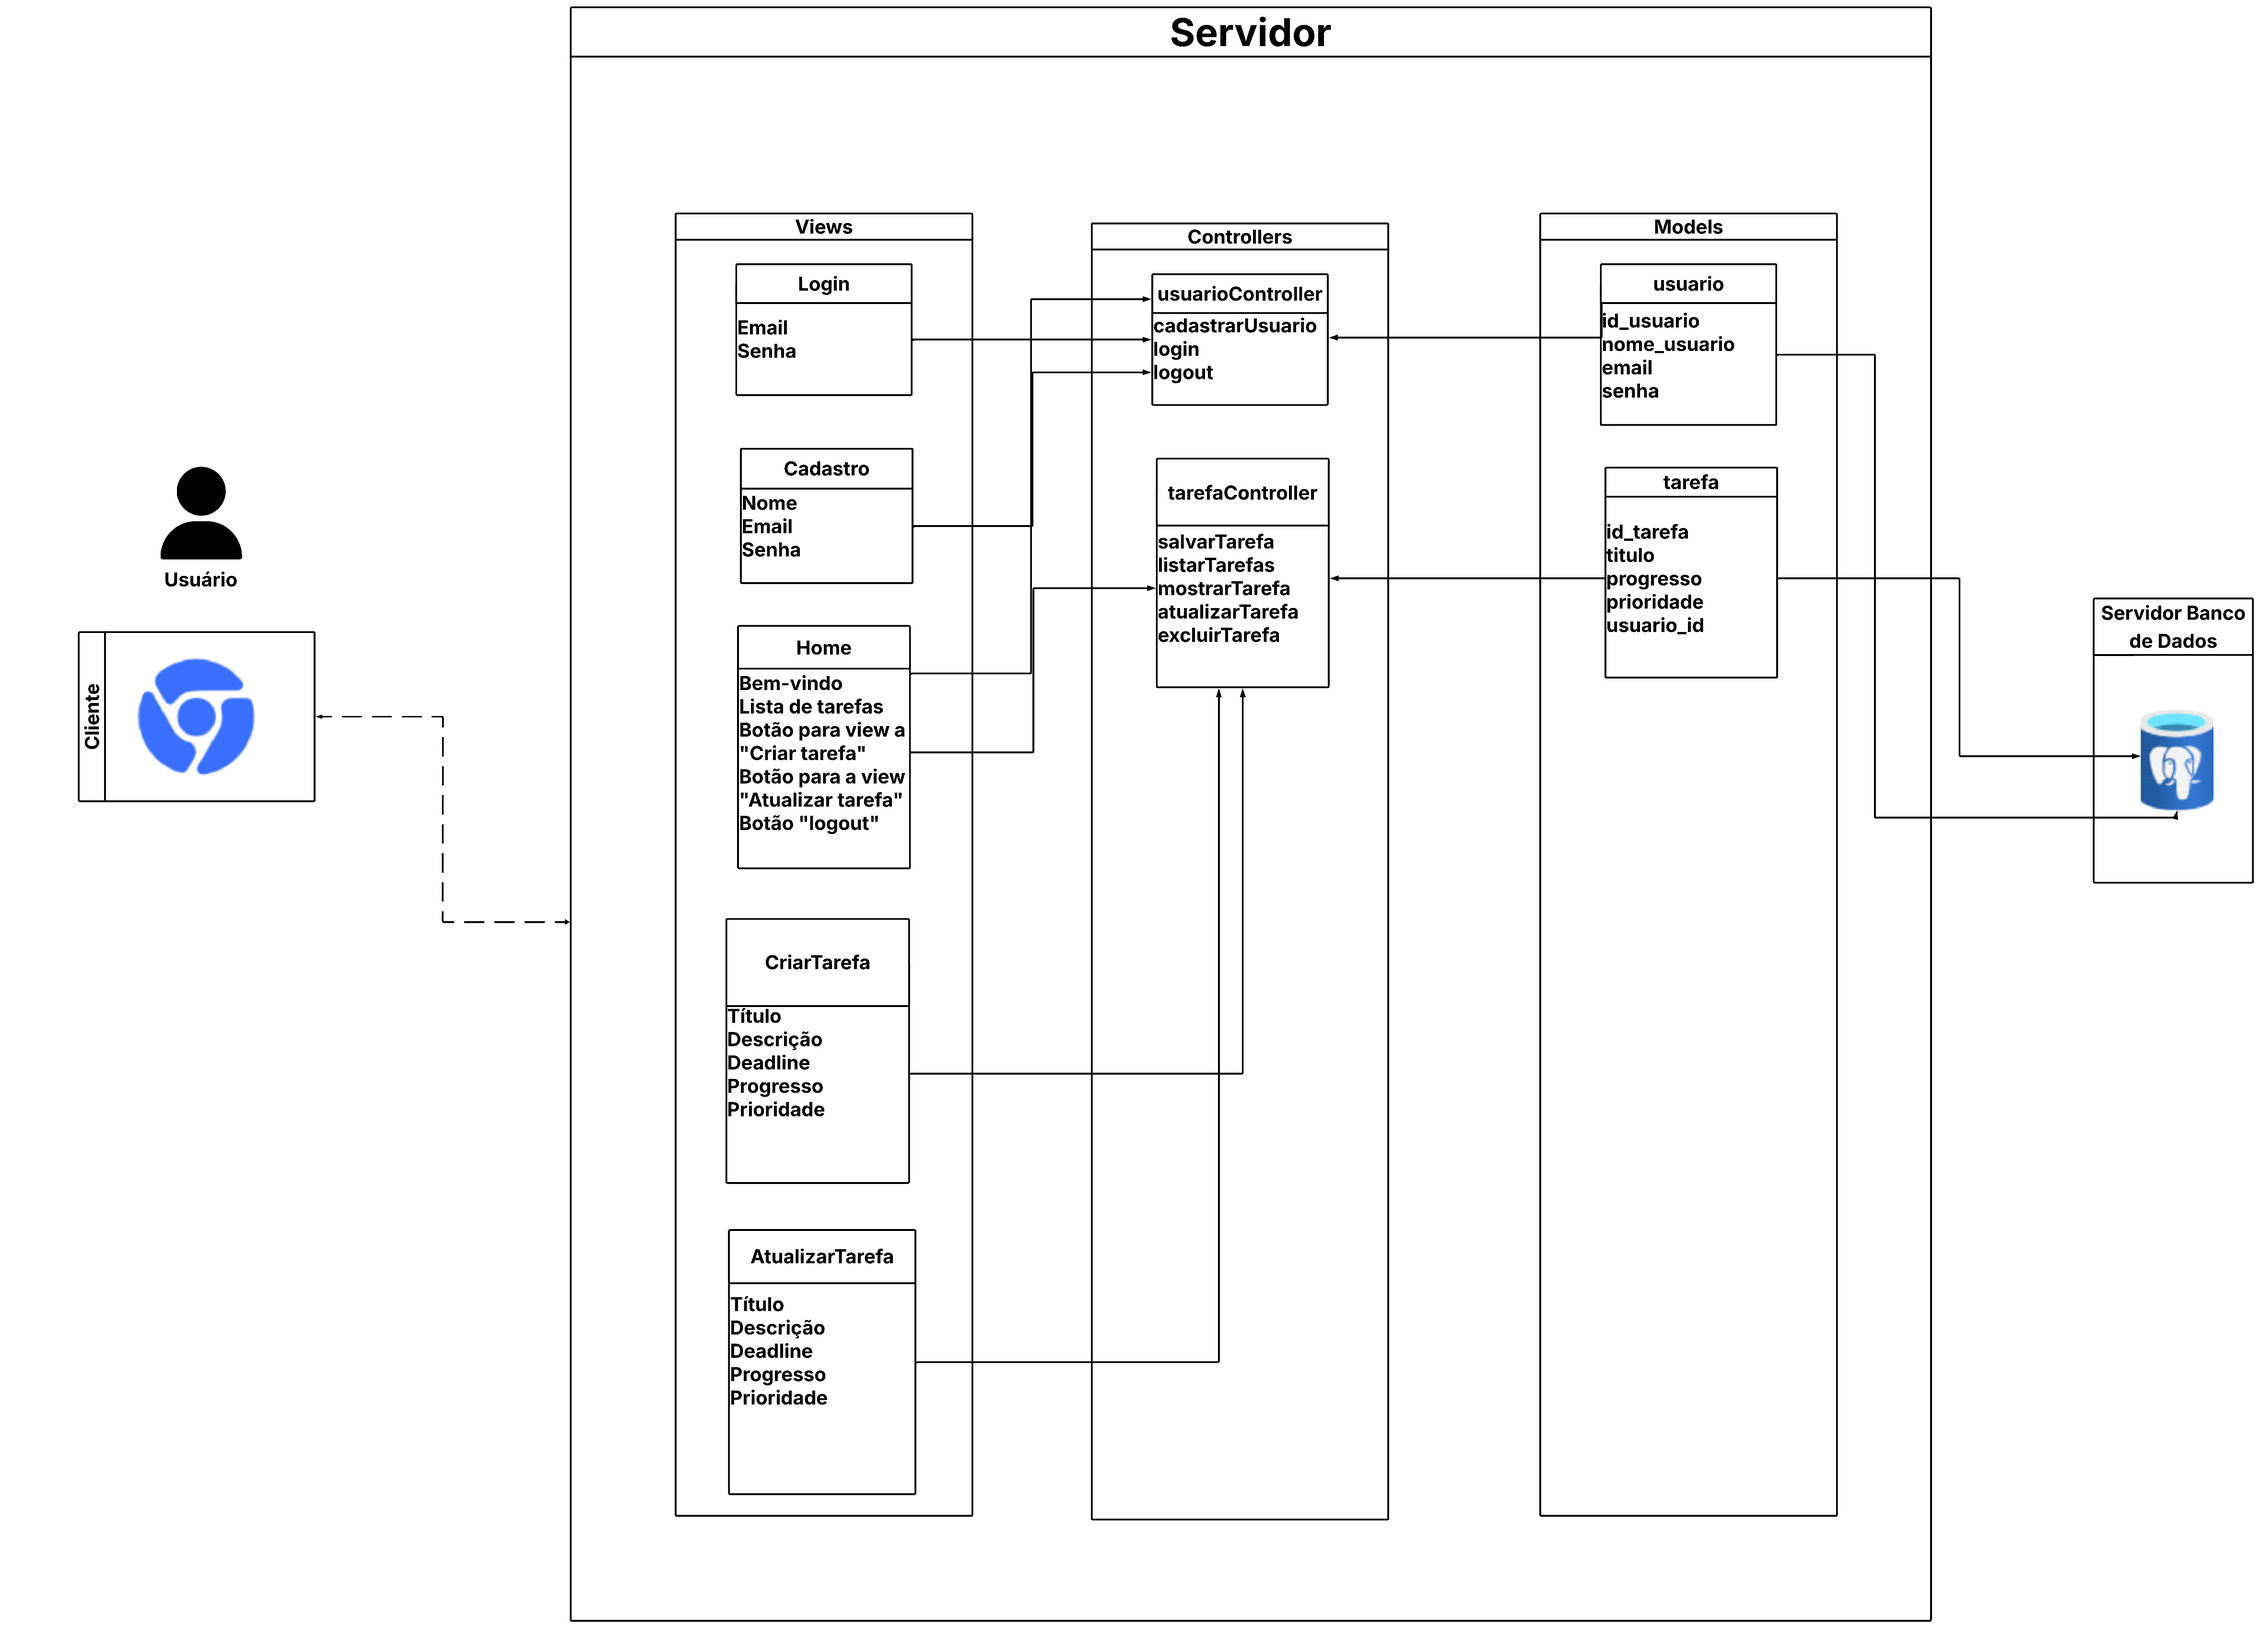
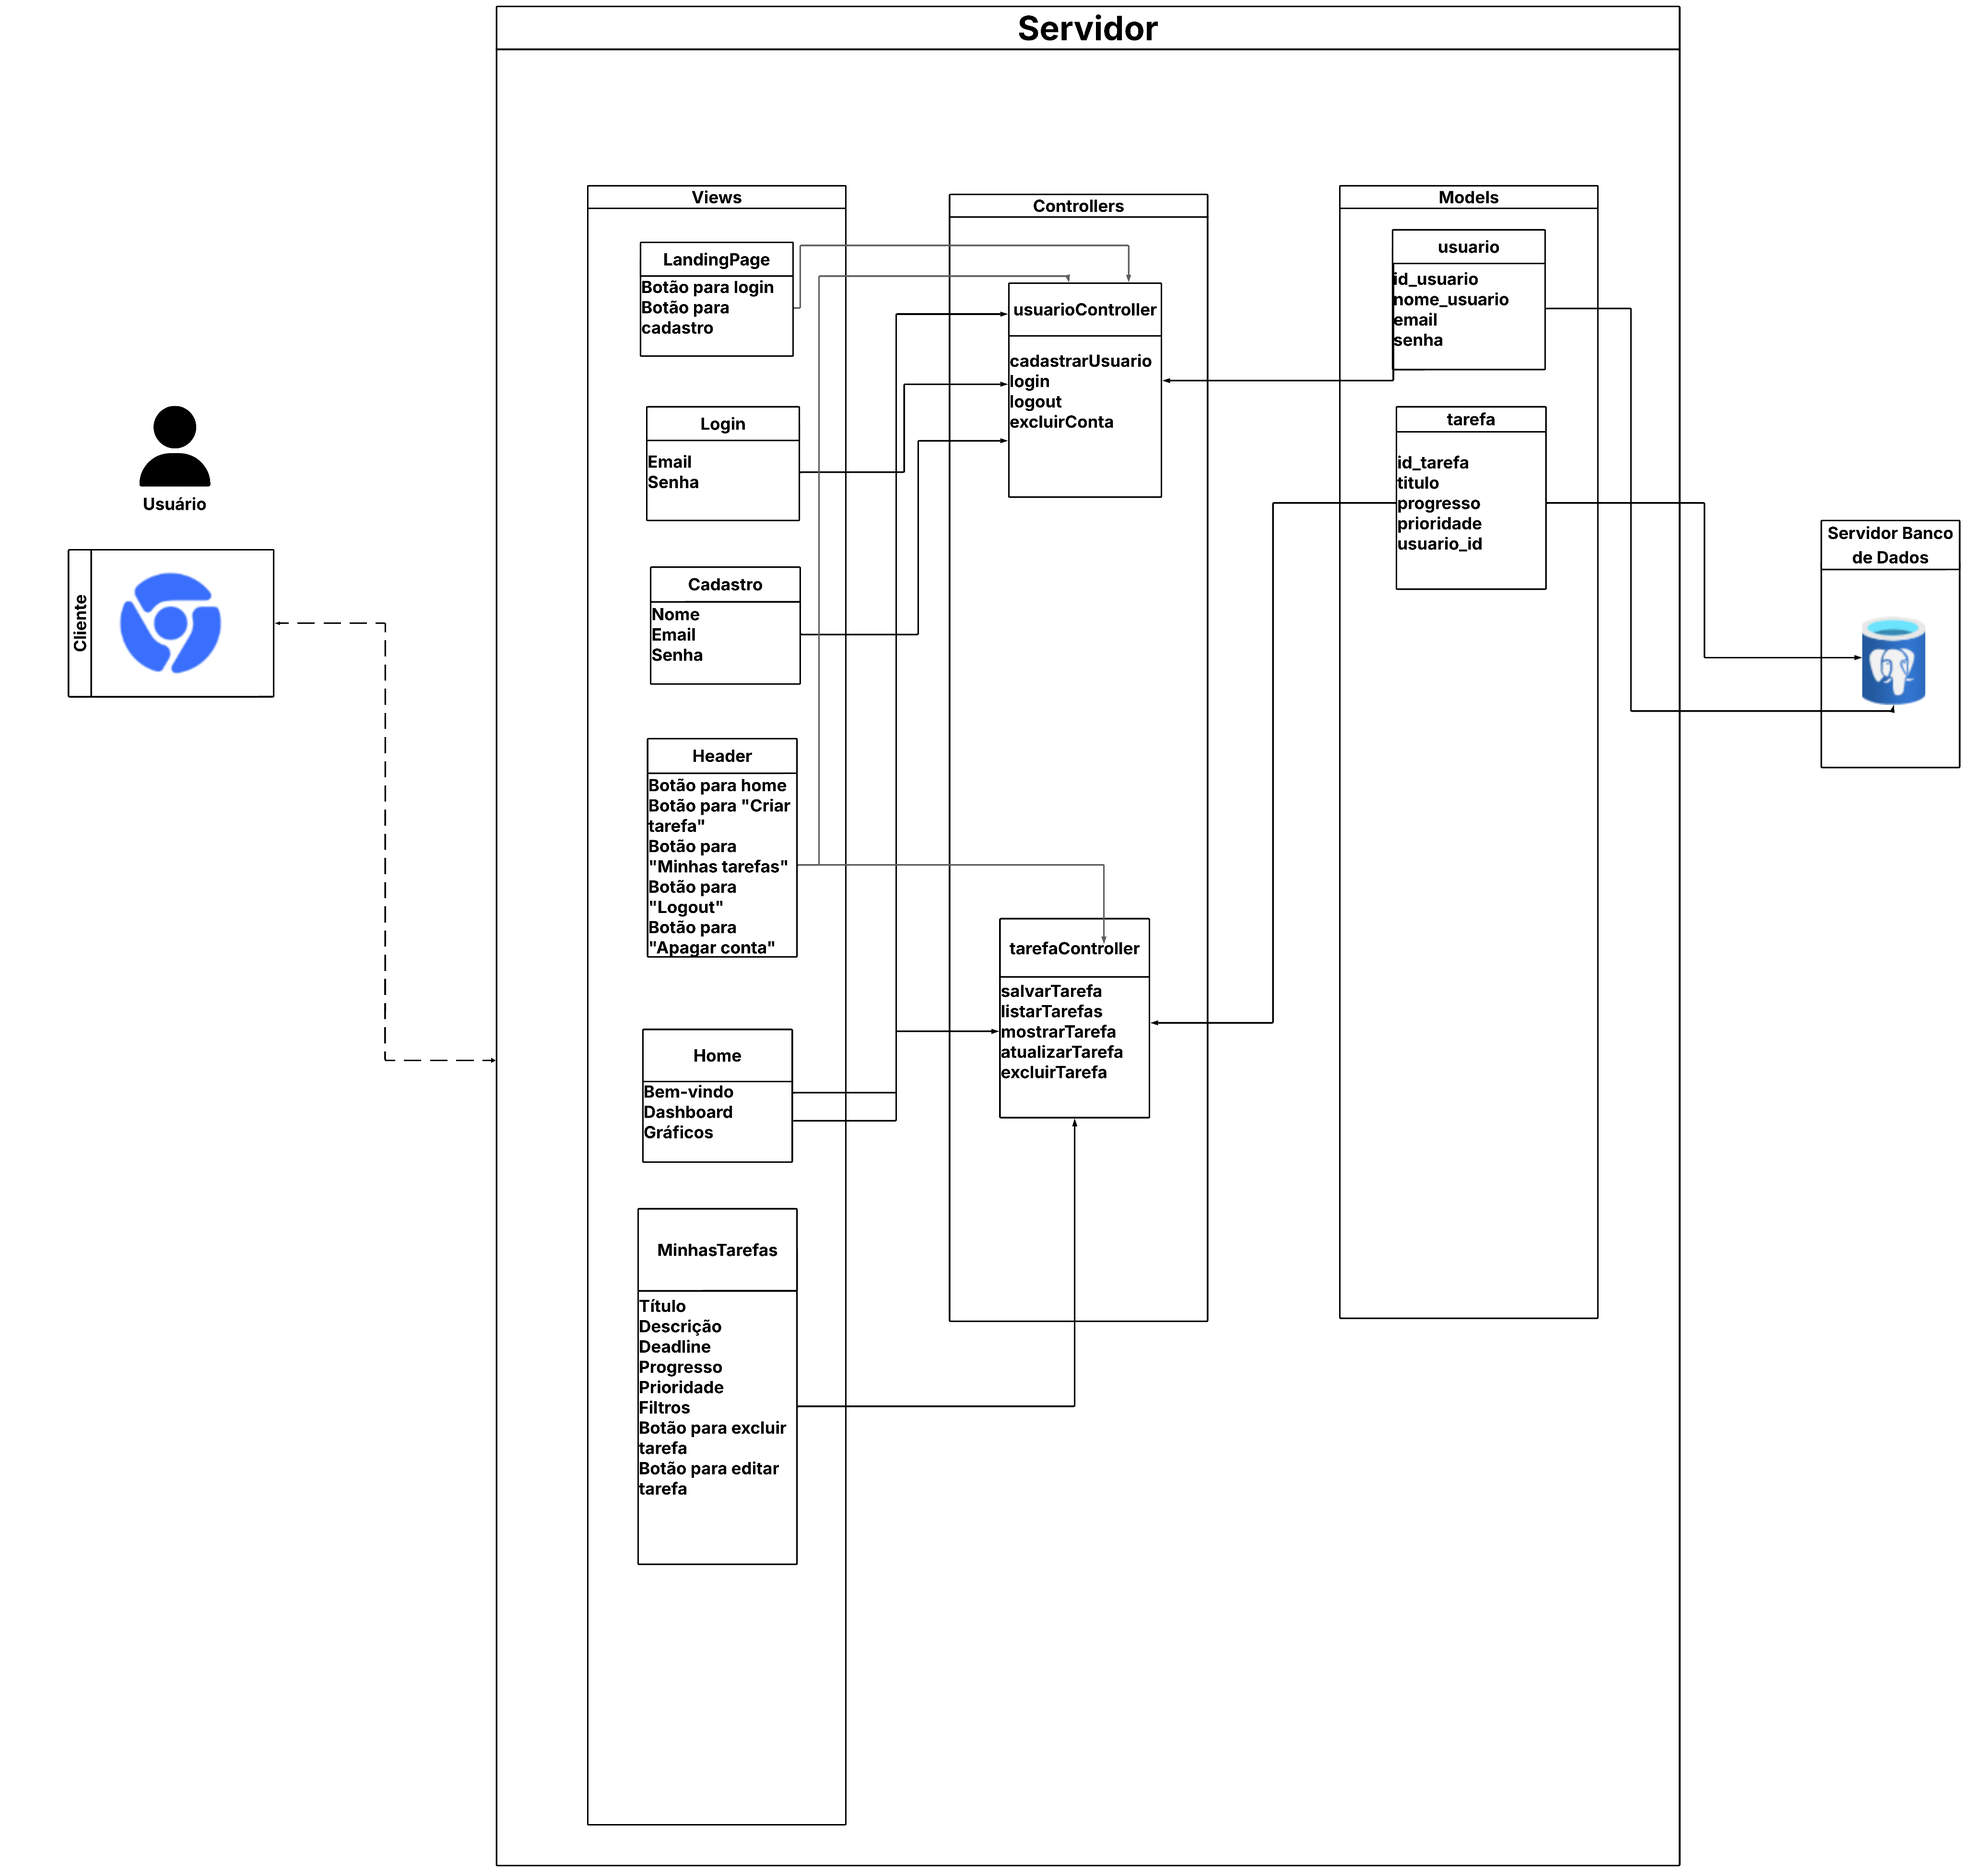
docs: atualizar estrutura MVC no WAD

diff --git a/documents/WAD.md b/documents/WAD.md
@@ -161,11 +161,13 @@ CREATE TABLE TAREFA (
 
 &nbsp; &nbsp; &nbsp; &nbsp;- Cadastro: possui campos de nome, email e senha. Envia os dados para usuarioController.cadastrarUsuario;
 
-&nbsp; &nbsp; &nbsp; &nbsp; - Home: essa view exibe mensagem de boas-vindas, lista as tarefas do usuário e botões para criar tarefa, atualizar tarefa e logout;
+&nbsp; &nbsp; &nbsp; &nbsp; - Header: essa view, que está dentro da pasta components, apresenta botões para acessar funcionalidades da plataforma: botão para renderizar a home, botão para renderizar "Criar tarefa", botão para renderizar "Minhas tarefas", botão para "Logout" e botão para "Apagar conta". Ela usa usuarioController.logout e usuarioController.excluirConta;
+
+&nbsp; &nbsp; &nbsp; &nbsp; - Home: essa view exibe mensagem de boas-vindas, um dashboard (com a quantidade de tarefas a fazer, quantidade de tarefas concluídas e quantidade total de tarefas)
 
 &nbsp; &nbsp; &nbsp; &nbsp; - CriarTarefa: consiste em um formulário com campos título, descrição, deadline, progresso e prioridade. Além disso, envia os dados para tarefaController.salvarTarefa;
 
-&nbsp; &nbsp; &nbsp; &nbsp; - AtualizarTarefa: basicamente, é um formulário semelhante ao de criação de tarefas. No entanto, ele atualiza tarefa via tarefaController.atualizarTarefa. <br> <br>
+&nbsp; &nbsp; &nbsp; &nbsp; - MinhasTarefas: basicamente, nessa view aparecem todas as tarefas do usuário (em forma de cards), com botões para editá-las ou excluí-las. Ao clicar nesses botões, um popup é aberto para tal. Ela se relaciona com tarefaController.listarTarefas, tarefaController.editarTarefa e tarefaController.excluirTarefas  <br> <br>
 
 
 &nbsp; &nbsp; &nbsp; &nbsp; **Controllers (controladores)** <br>
@@ -177,6 +179,8 @@ CREATE TABLE TAREFA (
 &nbsp; &nbsp; &nbsp; &nbsp;- login: autentica um usuário existente;
 
 &nbsp; &nbsp; &nbsp; &nbsp; - logout: encerra a sessão do usuário.
+
+&nbsp; &nbsp; &nbsp; &nbsp; - excluirConta: o usuário pode excluir sua conta.
 <br> <br>
 
 &nbsp; &nbsp; &nbsp; &nbsp;**tarefaController** <br>
@@ -1205,7 +1209,7 @@ carregarTarefas();
 &nbsp; &nbsp; &nbsp; &nbsp;De modo geral, não houve mudanças significativas no backend e no banco de dados em relação ao que foi mostrado nas seções anteriores. Apenas houve a adição da opção de exclusão de conta do usuário no controllers/usuarioController.js e também a exclusão de tarefas relacionadas a esse usuário excluído no banco de dados, sendo que esta última alteração mencionada foi realizada no models/tarefa.js. Tais mudanças estão explicitadas logo abaixo:
 
 ```javascript
-//***ARQUIVO models/tarefa.js***
+//***Trecho do arquivo models/tarefa.js***
 async excluirPorUsuario(usuarioId) {
     const query = "DELETE FROM TAREFA WHERE usuario_id = $1";
     await pool.query(query, [usuarioId]);
@@ -1213,7 +1217,7 @@ async excluirPorUsuario(usuarioId) {
 ```
 
 ```javascript
-//***ARQUIVO controllers/usuarioController.js***
+//***Trecho do arquivo controllers/usuarioController.js***
 
 //Exclusão de conta.
 exports.excluirConta = async (req, res) => {
